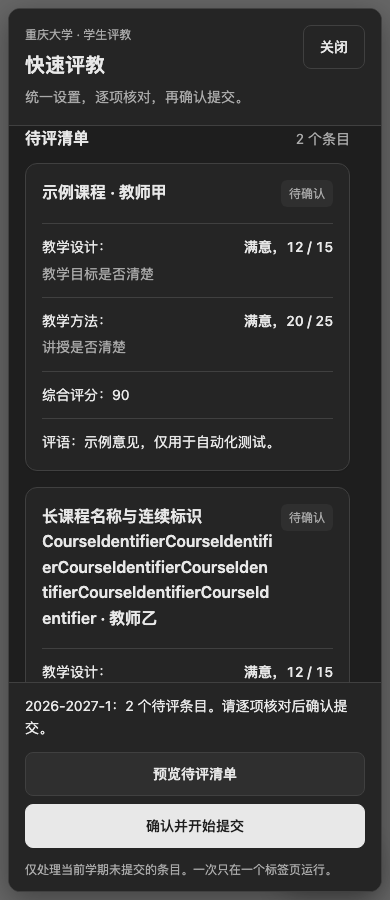
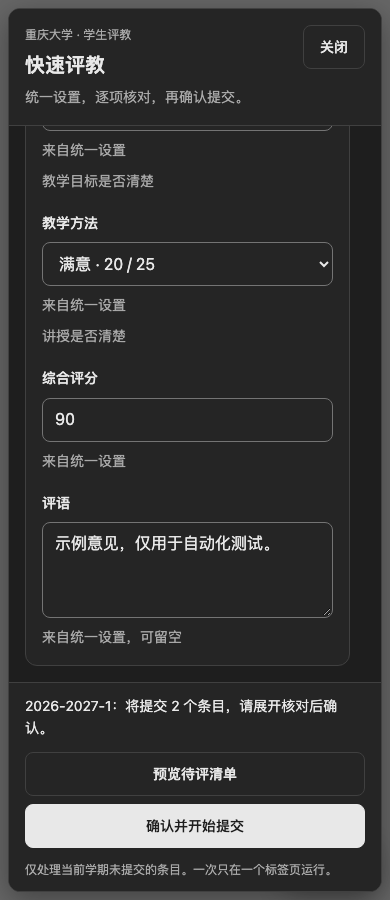
feat: 支持选择课程并展开编辑评价内容

diff --git a/jxzljc.user.js b/jxzljc.user.js
@@ -1,7 +1,7 @@
 // ==UserScript==
 // @name         重庆大学快速评教
 // @namespace    https://github.com/cqu-moe/jxzljc
-// @version      0.2.0
+// @version      0.3.0
 // @description  预览确认后批量评价当前学期待评条目，保留已有草稿。
 // @match        *://jxzljc.cqu.edu.cn/xspj/xspj/index/xspjindex*
 // @run-at       document-idle
@@ -132,7 +132,7 @@
       button, input, select, textarea { font: inherit; }
       button { min-height: 44px; padding: var(--space-2) var(--space-4); border: 1px solid var(--border); border-radius: var(--radius); background: var(--surface); color: var(--foreground); font-size: var(--text-sm); font-weight: 500; cursor: pointer; touch-action: manipulation; }
       button:disabled { color: var(--muted-foreground); background: var(--muted); cursor: not-allowed; }
-      :is(button, input, select, textarea):focus-visible { outline: 2px solid var(--ring); outline-offset: 3px; }
+      :is(button, input, select, textarea, summary):focus-visible { outline: 2px solid var(--ring); outline-offset: 3px; }
       .primary:not(:disabled) { color: var(--primary-foreground); background: var(--primary); border-color: var(--primary); }
       @media (hover: hover) { button:not(:disabled):hover { background: var(--accent); } .primary:not(:disabled):hover { background: color-mix(in oklab, var(--primary) 85%, var(--surface)); } }
       button:not(:disabled):active { background: var(--muted); }
@@ -150,7 +150,7 @@
       h3 { font-size: var(--text-base); font-weight: 600; }
       .eyebrow { font-size: var(--text-xs); color: var(--muted-foreground); margin-bottom: var(--space-2); }
       .description { color: var(--muted-foreground); font-size: var(--text-sm); margin-top: var(--space-2); }
-      .content { padding: var(--space-6); display: grid; gap: var(--space-6); min-height: 0; overflow-y: auto; overscroll-behavior: contain; scrollbar-gutter: stable; }
+      .content { padding: var(--space-6); display: grid; grid-template-columns: minmax(0, 1fr); gap: var(--space-6); min-height: 0; overflow-y: auto; overscroll-behavior: contain; scrollbar-gutter: stable; }
       .section-heading { display: flex; align-items: baseline; justify-content: space-between; gap: var(--space-3); margin-bottom: var(--space-3); }
       .card { border: 1px solid var(--border); border-radius: var(--radius-lg); background: var(--surface); box-shadow: var(--shadow-card); padding: var(--space-5); }
       fieldset { margin: 0; border: 0; display: grid; grid-template-columns: minmax(0, 1fr) minmax(0, 1fr); gap: var(--space-5); min-width: 0; }
@@ -164,15 +164,28 @@
       .count { color: var(--muted-foreground); font-size: var(--text-sm); font-variant-numeric: tabular-nums; }
       #empty { padding: var(--space-8) var(--space-4); text-align: center; border: 1px dashed var(--border); border-radius: var(--radius-lg); }
       #empty strong { display: block; font-size: var(--text-sm); font-weight: 500; margin-bottom: var(--space-2); }
-      ol { list-style: none; padding: 0; margin: 0; display: grid; gap: var(--space-4); }
-      li { overflow-wrap: anywhere; min-width: 0; }
-      .course-heading { display: flex; align-items: flex-start; justify-content: space-between; flex-wrap: wrap; gap: var(--space-2); padding-bottom: var(--space-4); }
-      .course-heading h3 { flex: 1; min-width: 0; }
-      .rating { padding: var(--space-3) 0; border-top: 1px solid var(--border); font-size: var(--text-sm); }
-      .rating-line { display: flex; justify-content: space-between; flex-wrap: wrap; gap: var(--space-1) var(--space-4); }
-      .rating-line strong { font-weight: 500; font-variant-numeric: tabular-nums; }
-      .rating .muted { margin-top: var(--space-1); }
-      .comment { white-space: pre-wrap; font-size: var(--text-sm); padding-top: var(--space-3); border-top: 1px solid var(--border); }
+      #selection { margin-bottom: var(--space-2); }
+      .checkbox { display: flex; align-items: center; min-height: 44px; gap: var(--space-2); cursor: pointer; }
+      input[type="checkbox"] { appearance: auto; width: 20px; height: 20px; min-height: 0; padding: 0; margin: 0; accent-color: var(--primary); cursor: inherit; }
+      .course-select { position: absolute; top: var(--space-2); left: var(--space-2); width: 44px; justify-content: center; z-index: 1; }
+      .checkbox:has(input:disabled) { cursor: not-allowed; }
+      ol { list-style: none; padding: 0; margin: 0; border: 1px solid var(--border); border-radius: var(--radius-lg); background: var(--surface); }
+      ol:empty { display: none; }
+      li { position: relative; overflow-wrap: anywhere; min-width: 0; }
+      li + li { border-top: 1px solid var(--border); }
+      summary { display: flex; align-items: center; gap: var(--space-3); min-height: 60px; padding: var(--space-3) var(--space-4) var(--space-3) calc(44px + var(--space-4)); cursor: pointer; border-radius: var(--radius); list-style: none; touch-action: manipulation; }
+      summary::-webkit-details-marker { display: none; }
+      summary::after { content: ''; width: 8px; height: 8px; flex: none; border-right: 2px solid currentColor; border-bottom: 2px solid currentColor; transform: rotate(-45deg); }
+      details[open] > summary::after { transform: rotate(45deg); }
+      @media (hover: hover) { summary:hover { background: var(--muted); } }
+      .course-name { display: flex; align-items: baseline; gap: var(--space-2); flex: 1; min-width: 0; font-size: var(--text-sm); font-weight: 500; }
+      .course-title { min-width: 0; overflow: hidden; white-space: nowrap; text-overflow: ellipsis; }
+      .teacher { flex-shrink: 0; max-width: 40%; overflow: hidden; white-space: nowrap; text-overflow: ellipsis; color: var(--muted-foreground); font-size: var(--text-xs); font-weight: 400; }
+      details[open] .course-name { display: block; }
+      details[open] :is(.course-title, .teacher) { display: block; max-width: none; white-space: normal; overflow: visible; }
+      .editor { padding: var(--space-4); border-top: 1px solid var(--border); }
+      .field-error { color: var(--destructive); font-size: var(--text-sm); font-weight: 400; }
+      [aria-invalid="true"] { border-color: var(--destructive); }
       .result { font-size: var(--text-xs); color: var(--muted-foreground); background: var(--muted); border-radius: var(--radius-sm); padding: var(--space-1) var(--space-2); }
       .result[data-state="success"] { color: var(--success); }
       .result[data-state="error"] { color: var(--destructive); }
@@ -191,6 +204,8 @@
         header { gap: var(--space-2); }
         h2 { font-size: var(--text-xl); }
         fieldset { grid-template-columns: 1fr; }
+        .course-name { display: grid; gap: 0; }
+        .teacher { max-width: none; }
         .card { padding: var(--space-4); }
         footer { padding: var(--space-3) var(--space-4) max(var(--space-3), env(safe-area-inset-bottom)); }
         .actions { display: grid; grid-template-columns: 1fr; }
@@ -212,14 +227,17 @@
               <label>满意度档位<select id="grade" required><option value="">请选择满意度</option></select></label>
               <div class="field"><label for="overall">综合评分</label><input id="overall" type="number" step="1" required aria-describedby="score-help"><p class="muted" id="score-help">按网站允许的范围填写</p></div>
               <label class="wide">统一评语<textarea id="comment" rows="3" placeholder="填写你的意见与建议，可留空"></textarea></label>
-              <p class="muted wide">已有评分和评语会保留，最终内容将在下方逐项列出。</p>
+              <p class="muted wide">已有评分和评语会保留。展开课程可单独调整；重新预览会重置勾选与逐课修改。</p>
             </fieldset>
           </form>
         </section>
         <section aria-labelledby="list-title">
           <div class="section-heading"><h3 id="list-title">待评清单</h3><span class="count" id="count">尚未生成</span></div>
           <div id="empty"><strong>先填写统一评价设置</strong><p class="muted">预览后即可核对当前学期的待评条目。</p></div>
-          <ol id="list" aria-label="待评清单"></ol>
+          <form id="evaluation" novalidate>
+            <label id="selection" class="checkbox" hidden><input id="select-all" type="checkbox">全选待评课程</label>
+            <ol id="list" aria-label="待评清单"></ol>
+          </form>
         </section>
       </div>
       <footer>
@@ -229,7 +247,7 @@
         </div>
         <div class="actions">
           <button class="primary" id="preview" type="submit" form="settings">预览待评清单</button>
-          <button id="confirm" disabled>确认并开始提交</button>
+          <button id="confirm" type="submit" form="evaluation" disabled>确认并开始提交</button>
           <button id="stop" class="primary" hidden>停止后续提交</button>
           <button id="refresh" hidden>刷新课程列表</button>
         </div>
@@ -251,10 +269,12 @@
     $('preview').disabled = value;
     $('close').disabled = value;
     $('refresh').disabled = value;
-    $('confirm').disabled = value || !plan?.items.length;
-    $('preview').classList.toggle('primary', !plan?.items.length && $('refresh').hidden);
-    $('refresh').classList.toggle('primary', !plan?.items.length);
-    $('confirm').classList.toggle('primary', Boolean(plan?.items.length));
+    const selected = plan?.items.some(item => item.selected);
+    $('confirm').disabled = value || !selected;
+    $('preview').classList.toggle('primary', !selected && $('refresh').hidden);
+    $('refresh').classList.toggle('primary', !selected);
+    $('confirm').classList.toggle('primary', Boolean(selected));
+    for (const control of $('evaluation').querySelectorAll('fieldset, input[type="checkbox"]')) control.disabled = value || !plan;
     $('settings').setAttribute('aria-busy', String(value));
   }
 
@@ -336,7 +356,7 @@
     if (savedComment !== undefined && typeof savedComment !== 'string') fail(`${course.name}：已有评语无法识别。`);
     const hasComment = Boolean(savedComment?.trim());
     return {
-      course, fields, hasOverall, hasComment,
+      course, fields, hasOverall, hasComment, selected: true,
       payload: { xsxkxxid: course.id, overallRating: String(overall), comment: hasComment ? savedComment : preset.comment, ratings: fields.map(f => ({ zbid: f.indicator.id, score: f.score })) },
     };
   }
@@ -349,38 +369,131 @@
     return p;
   }
 
-  function showPlan(items) {
+  function updateSelection() {
+    const count = plan.items.filter(item => item.selected).length;
+    $('count').textContent = `已选 ${count} / ${plan.items.length}`;
+    $('select-all').checked = count > 0 && count === plan.items.length;
+    $('select-all').indeterminate = count > 0 && count < plan.items.length;
+    $('status').textContent = count ? `${plan.semester}：将提交 ${count} 个条目，请展开核对后确认。` : '尚未选择课程，请勾选要评价的条目。';
+    lock(false);
+  }
+
+  function showPlan(items, range) {
     $('list').replaceChildren();
-    $('count').textContent = `${items.length} 个条目`;
+    $('selection').hidden = !items.length;
     $('empty').hidden = items.length > 0;
     if (!items.length) $('empty').innerHTML = '<strong>当前学期没有待评条目</strong><p class="muted">已提交和非待评状态的条目不会列入清单。</p>';
-    for (const item of items) {
+    for (const [index, item] of items.entries()) {
       const li = document.createElement('li');
-      li.className = 'card';
-      const header = document.createElement('div');
-      header.className = 'course-heading';
-      const heading = document.createElement('h3');
-      heading.textContent = `${item.course.name} · ${item.course.teacher}`;
-      header.append(heading);
-      item.result = paragraph(header, '待确认', 'result');
-      li.append(header);
+      const name = `${item.course.name} · ${item.course.teacher}`;
+      const selection = document.createElement('label');
+      selection.className = 'checkbox course-select';
+      const checkbox = document.createElement('input');
+      checkbox.type = 'checkbox';
+      checkbox.checked = true;
+      checkbox.setAttribute('aria-label', `评价 ${name}`);
+      selection.append(checkbox);
+      const details = document.createElement('details');
+      const summary = document.createElement('summary');
+      const heading = document.createElement('span');
+      heading.className = 'course-name';
+      const courseTitle = document.createElement('span');
+      courseTitle.className = 'course-title';
+      courseTitle.textContent = item.course.name;
+      const teacher = document.createElement('span');
+      teacher.className = 'teacher';
+      teacher.textContent = item.course.teacher;
+      heading.append(courseTitle, teacher);
+      summary.append(heading);
+      item.result = document.createElement('span');
+      item.result.className = 'result';
+      summary.append(item.result);
+      const editor = document.createElement('fieldset');
+      editor.className = 'editor';
+      editor.setAttribute('aria-label', `${name}的评价内容`);
+      details.append(summary, editor);
+      li.append(selection, details);
+      const updateSummary = () => { item.result.textContent = item.selected ? (item.payload.overallRating ? `${item.payload.overallRating} 分` : '待填写') : '本次不评'; };
+      checkbox.addEventListener('change', () => {
+        item.selected = checkbox.checked;
+        updateSummary();
+        updateSelection();
+      });
       for (const f of item.fields) {
-        const row = document.createElement('div');
-        row.className = 'rating';
-        const line = paragraph(row, '', 'rating-line');
+        const label = document.createElement('label');
         const title = document.createElement('span');
-        title.textContent = `${f.indicator.title}：`;
-        const value = document.createElement('strong');
-        value.textContent = `${grades[f.grade][0]}，${f.score} / ${f.indicator.maxScore}${f.preserved ? '（保留草稿）' : ''}`;
-        line.append(title, value);
-        if (f.indicator.description) paragraph(row, f.indicator.description, 'muted');
-        li.append(row);
+        title.textContent = f.indicator.title;
+        const select = document.createElement('select');
+        for (const [value, [text, weight]] of Object.entries(grades)) select.add(new Option(`${text} · ${Number(f.indicator.maxScore) * weight} / ${f.indicator.maxScore}`, value));
+        select.value = f.grade;
+        label.append(title, select);
+        const source = paragraph(label, f.preserved ? '保留草稿' : '来自统一设置', 'muted');
+        if (f.indicator.description) paragraph(label, f.indicator.description, 'muted');
+        select.addEventListener('change', () => {
+          f.grade = select.value;
+          f.score = Number(f.indicator.maxScore) * grades[f.grade][1];
+          item.payload.ratings = item.fields.map(field => ({ zbid: field.indicator.id, score: field.score }));
+          source.textContent = '本次修改';
+        });
+        editor.append(label);
       }
-      paragraph(li, `综合评分：${item.payload.overallRating}${item.hasOverall ? '（保留草稿）' : ''}`, 'rating');
-      paragraph(li, `评语${item.hasComment ? '（保留草稿）' : ''}：${item.payload.comment || '（留空）'}`, 'comment');
+      const overallLabel = document.createElement('label');
+      const overallTitle = document.createElement('span');
+      overallTitle.textContent = '综合评分';
+      const overall = document.createElement('input');
+      overall.type = 'number';
+      overall.min = $('overall').min;
+      overall.max = String(range.max);
+      overall.step = '1';
+      overall.required = true;
+      overall.value = item.payload.overallRating;
+      overallLabel.append(overallTitle, overall);
+      const overallSource = paragraph(overallLabel, item.hasOverall ? '保留草稿' : '来自统一设置', 'muted');
+      const error = paragraph(overallLabel, `请输入 ${overall.min}–${range.max} 范围内的整数，不能使用网站初始值 ${range.initial}。`, 'field-error');
+      error.id = `course-error-${index}`;
+      error.hidden = true;
+      overall.setAttribute('aria-describedby', error.id);
+      item.validate = () => {
+        const value = Number(overall.value);
+        const valid = overall.value !== '' && overall.checkValidity() && value !== range.initial;
+        overall.setAttribute('aria-invalid', String(!valid));
+        error.hidden = valid;
+        return valid;
+      };
+      item.focusInvalid = () => { details.open = true; overall.focus(); };
+      overall.addEventListener('blur', item.validate);
+      overall.addEventListener('input', () => {
+        item.payload.overallRating = overall.value === '' ? '' : String(Number(overall.value));
+        overallSource.textContent = '本次修改';
+        updateSummary();
+        if (overall.getAttribute('aria-invalid') === 'true') item.validate();
+      });
+      const commentLabel = document.createElement('label');
+      commentLabel.className = 'wide';
+      const commentTitle = document.createElement('span');
+      commentTitle.textContent = '评语';
+      const comment = document.createElement('textarea');
+      comment.rows = 3;
+      comment.value = item.payload.comment;
+      commentLabel.append(commentTitle, comment);
+      const commentSource = paragraph(commentLabel, item.hasComment ? '保留草稿' : '来自统一设置，可留空', 'muted');
+      comment.addEventListener('input', () => {
+        item.payload.comment = comment.value;
+        commentSource.textContent = '本次修改';
+      });
+      editor.append(overallLabel, commentLabel);
+      updateSummary();
       $('list').append(li);
     }
   }
+
+  $('select-all').addEventListener('change', () => {
+    const checked = $('select-all').checked;
+    for (const checkbox of $('list').querySelectorAll('input[type="checkbox"]')) {
+      checkbox.checked = checked;
+      checkbox.dispatchEvent(new Event('change'));
+    }
+  });
 
   $('launch').addEventListener('click', () => {
     dialog.showModal();
@@ -398,6 +511,7 @@
     plan = null;
     $('confirm').disabled = true;
     $('list').replaceChildren();
+    $('selection').hidden = true;
     $('preview').classList.toggle('primary', $('refresh').hidden);
     $('confirm').classList.remove('primary');
     $('error').textContent = '';
@@ -417,6 +531,7 @@
     $('empty').hidden = false;
     $('empty').innerHTML = '<strong>正在读取待评条目…</strong><p class="muted">正在核对当前学期、指标和已有草稿。</p>';
     $('list').replaceChildren();
+    $('selection').hidden = true;
     try {
       const modal = document.getElementById('evaluationModal');
       if (modal && getComputedStyle(modal).display !== 'none') fail('请先关闭网站的单门评教窗口，保存当前草稿后再预览。');
@@ -434,9 +549,10 @@
         items.push(prepare(course, byType.get(course.kcxz), semester, draft, preset, range));
       }
       plan = { semester, items, draftRaw, reviewedAt: Date.now() };
-      showPlan(items);
+      showPlan(items, range);
+      updateSelection();
       $('list-title').scrollIntoView({ block: 'start', behavior: 'instant' });
-      $('status').textContent = `${semester}：${items.length} 个待评条目。${items.length ? '请逐项核对后确认提交。' : '无需提交。'}`;
+      if (!items.length) $('status').textContent = `${semester}：0 个待评条目，无需提交。`;
     } catch (error) {
       $('status').textContent = '未生成提交计划。';
       $('count').textContent = '未生成';
@@ -451,9 +567,14 @@
     $('stop').disabled = true;
     $('status').textContent = '正在停止；如已发出提交请求，将先核实当前条目的结果。';
   });
-  $('confirm').addEventListener('click', async () => {
-    if (busy || !plan?.items.length) return;
-    const batch = plan;
+  $('evaluation').addEventListener('submit', async event => {
+    event.preventDefault();
+    if (busy || !plan) return;
+    const selected = plan.items.filter(item => item.selected);
+    if (!selected.length) return;
+    const invalid = selected.find(item => !item.validate());
+    if (invalid) { invalid.focusInvalid(); return; }
+    const batch = { ...plan, items: selected };
     plan = null;
     lock(true);
     stopping = false;

diff --git a/docs/design.md b/docs/design.md
@@ -10,7 +10,7 @@
 
 界面自动跟随系统深浅色，未增加手动主题偏好或存储键。无列表／弹窗入场动画，键盘和减少动态效果模式同样即时显示。颜色、字号、间距、圆角与阴影使用共享语义变量；44px 触屏尺寸、16px 输入下限和视口断点为浏览器布局约束。
 
-固定头尾、滚动内容区用于保留长清单中的停止／恢复入口。预览后定位到清单；提交期间突出停止动作，结束后焦点返回刷新按钮。草稿保留、逐条提交与回读、失败停止的业务合同保持不变。
+固定头尾、滚动内容区用于保留长清单中的停止／恢复入口。预览后定位到清单；提交期间突出停止动作，结束后焦点返回刷新按钮。v0.3.0 使用原生 details/summary 展开课程，复选框作为独立控件放在展开控件外，避免嵌套点击冲突；CSS 仅绘制展开指示。收起时省略过长名称，展开可读完整名称和教师。选择与编辑共用提交锁；校验失败会展开课程并聚焦错误字段。
 
 ## 自动检查
 
@@ -24,15 +24,15 @@ npm test
 
 `check:design` 是适用于单文件脚本的有限检查：保证内嵌 CSS 与本地主题包一致、业务样式不使用原始颜色／全属性过渡、引用的主题变量存在。它不等同于 React UI 包的完整消费检查器，也不证明视觉、可访问性或真实接口正确；需结合下面的页面检查。
 
-[桌面浅色设置](screenshots/settings-light.png) · [手机深色预览](screenshots/preview-dark-mobile.png)（均为合成数据）
+[桌面浅色设置](screenshots/settings-light.png) · [课程选择清单](screenshots/course-list-light.png) · [手机深色编辑](screenshots/preview-dark-mobile.png)（均为合成数据）
 
 ## 2026-10-19 验收范围
 
 - 本地构建、语法与主题同步检查通过；另使用 CQU Design 源码的官方 `checkSource` 检查业务代码（排除原样内嵌的主题区），无违规。
-- 受控 HTTP 的 Chromium 测试：22 项，含原有 11 项业务回归；不连接学校服务器。
+- 受控 HTTP 的 Chromium 测试：24 项；新增勾选、全选、逐课编辑的请求内容与草稿保护、收起错误定位、未选项排除校验；不连接学校服务器。
 - 320／390／768／1440px × 浅深主题：长标题重排、无横向溢出、操作区可达、44px 控件与16px 输入下限；保存对应截图供视觉检查。
 - 系统主题即时变化及刷新；不会修改学校主题或写入 localStorage。
 - 键盘打开／校验／Enter 预览／Escape 关闭与焦点恢复；慢加载、空清单、窄屏停止、提交失败后的刷新入口；超长服务端错误在反馈区完整滚动显示，恢复按钮仍可见。
-- ego lite 真实页面：新版设置与只读预览成功识别14个待评条目，未修改草稿；完成后刷新移除临时脚本。
+- ego lite 真实页面：v0.2.0 设置与只读预览曾识别14个待评条目，未修改草稿；完成后刷新移除临时脚本。v0.3.0 本轮只验证受控接口，未重复真实页面验收。
 
 未执行真实评价提交、Tampermonkey 安装链路、Safari／Firefox、真实手机和屏幕阅读器验收。没有修改共享设计包或创建外部设计 issue；当前 theme-only 接入没有阻塞所需界面的共享能力缺口。

diff --git a/docs/quick-evaluation-plan.md b/docs/quick-evaluation-plan.md
@@ -11,6 +11,8 @@
 - 已填写但未提交的评分、综合评分和评语原样保留，只补空白。
 - 失败或提交结果不明确时停止，显示失败原因和已完成进度；不自动重试提交。
 
+2026-10-19 补充需求：待评清单默认显示紧凑课程行，展开后可修改指标评分、综合评分和评语；通过复选框决定本次评价哪些条目。默认全选，取消勾选或收起保留临时编辑；重新预览或刷新重置。草稿仍用于预填，手动修改只影响本次提交，学校本地草稿不被改写。提交前校验所有已选条目，存在错误则展开定位并阻止整个批次。
+
 ## 范围与验收
 
 - 待评范围：仅当前学期从未提交的条目，排除历史学期、已提交、已审核和被驳回条目。

diff --git a/GLOSSARY.md b/GLOSSARY.md
@@ -15,6 +15,6 @@ _Avoid_：仅凭课程名称判定同一评价对象
 
 **评价草稿**：已经填写但尚未确认提交成功的指标评分、综合评分与评语。
 
-**批量评价**：按统一评分与评语设置，依次完成多个待评条目的评价；保留草稿已有内容，只填补空白。
+**批量评价**：以统一设置填补草稿空白，允许逐条调整本次提交内容，确认后依次评价勾选的待评条目；不改写学校的本地草稿。
 
 **提交成功**：学校系统已接受评价，且重新查询后确认该评教条目已经提交。
